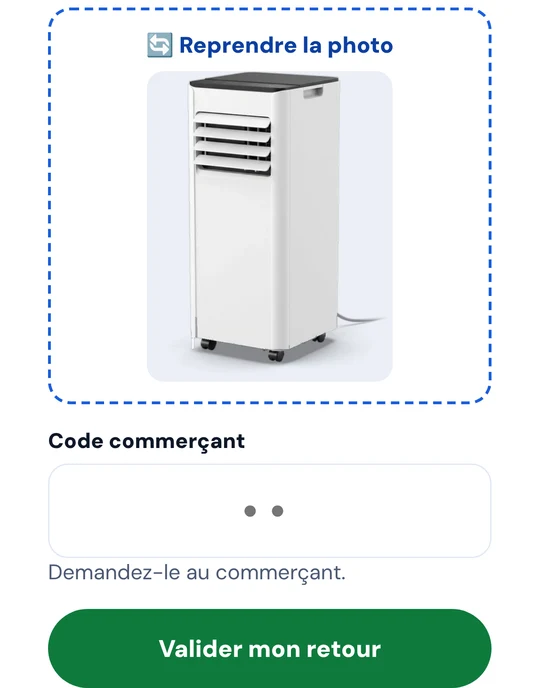
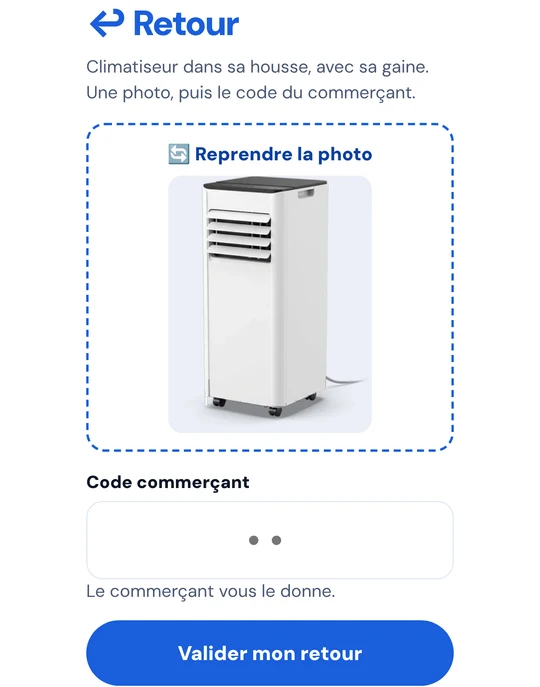
Page QR code client : seulement Retrait (vert) et Retour (bleu), infos inutiles retirées ; l'échange passe par « Un problème ? » › « Il ne marche pas »
Claude-Session: https://claude.ai/code/session_01GEnKbPYfUY1zWoPXS2iGVo

diff --git a/retrait.html b/retrait.html
@@ -13,7 +13,7 @@
 <!-- Page ouverte par le QR code collé chez le commerçant (Click & Collect).
      Le client s'identifie avec son numéro de commande. Retrait : il valide et
      montre l'écran vert. Retour : photo sous housse + code commerçant.
-     Panne : « Échanger mon appareil ici » (voir api/_lib/panne.js).
+     Panne : « Un problème ? » › « Il ne marche pas » = échange ici (voir api/_lib/panne.js).
      Serveur : api/cc-comptoir.js. -->
 <style>
 :root{--vif:#1A5EDB;--vif-d:#0D3FA0;--ink:#0E1726;--ink-2:#4B5873;--line:#E3E9F4;--mist:#F2F6FD;--ok:#0F7A3D;--err:#B42318;--paper:#fff}
@@ -48,10 +48,11 @@ input.pin{letter-spacing:.5em;font-weight:800;font-size:24px;text-align:center}
 .badge.ok{background:#E8F6EE;color:var(--ok)}
 .badge.att{background:#FFF4E5;color:#8A4B00}
 .tendre{margin:18px 0 0;text-align:center;font-weight:800;color:var(--vif-d)}
-.commercant{margin-top:20px;padding-top:20px;border-top:2px dashed var(--line)}
-.commercant h2{font-size:19px;margin:0 0 8px}
+.commercant{margin:0}
+.bloc-t{font-size:30px;font-weight:900;letter-spacing:-.03em;margin:0 0 8px}
+.t-ret{color:var(--ok)}.t-rtr{color:var(--vif)}
 .commercant p{margin:0 0 14px;color:var(--ink-2);font-size:15px;line-height:1.45}
-.client-ret{margin-top:18px}
+.client-ret{margin:0}
 .client-ret p{margin:0 0 14px;color:var(--ink-2);font-size:15.5px;line-height:1.5}
 .signal{margin-top:18px;padding-top:14px;border-top:1px solid var(--line)}
 .sig-lien{border:0;background:none;color:var(--ink-2);font:700 15px 'DM Sans',sans-serif;text-decoration:underline;cursor:pointer;padding:10px 0;min-height:44px;text-align:left}
@@ -113,14 +114,13 @@ html:not([data-l="en"]):not([data-l="es"]) [lang="en"],html:not([data-l="en"]):n
 <main>
   <!-- 1. le client s'identifie -->
   <section id="e-id">
-    <h1><span lang="fr">Retirer ou rendre votre climatiseur</span><span lang="en">Pick up or return your air conditioner</span><span lang="es">Recoge o devuelve tu aire acondicionado</span></h1>
-    <p class="sous"><span lang="fr">Tapez votre numéro de commande pour valider votre retrait. Il est dans votre email, votre SMS et votre confirmation PDF.</span><span lang="en">Enter your order number. It’s in your confirmation email and text, and stays the same until you return the unit.</span><span lang="es">Escribe tu número de pedido. Está en tu email y tu SMS de confirmación, y es el mismo hasta la devolución.</span></p>
-    <p class="point" id="point" hidden></p>
+    <h1><span lang="fr">Retrait ou retour</span><span lang="en">Pick-up or return</span><span lang="es">Recogida o devolución</span></h1>
+    <p class="sous"><span lang="fr">Votre numéro est dans votre email et votre SMS.</span><span lang="en">Your number is in your email and text.</span><span lang="es">Tu número está en tu email y tu SMS.</span></p>
     <form class="carte" id="f-id" novalidate>
       <div class="champ"><label for="ref"><span lang="fr">Numéro de commande</span><span lang="en">Order number</span><span lang="es">Número de pedido</span></label>
         <input id="ref" autocomplete="off" autocapitalize="characters" spellcheck="false" placeholder="CC-XXXXXXXX" maxlength="40"></div>
       
-      <button class="btn" id="b-id" type="submit"><span lang="fr">Voir ma réservation</span><span lang="en">See my booking</span><span lang="es">Ver mi reserva</span></button>
+      <button class="btn" id="b-id" type="submit"><span lang="fr">Continuer</span><span lang="en">Continue</span><span lang="es">Continuar</span></button>
       <p class="msg err" id="m-id" role="alert" hidden></p>
     </form>
   </section>
@@ -128,36 +128,26 @@ html:not([data-l="en"]):not([data-l="es"]) [lang="en"],html:not([data-l="en"]):n
   <!-- 2. la réservation, à montrer au commerçant -->
   <section id="e-resa" hidden>
     <div class="carte">
-      <p style="margin:0;color:var(--ink-2);font-weight:700"><span lang="fr">Réservation</span><span lang="en">Booking</span><span lang="es">Reserva</span> <span id="r-ref"></span></p>
-      <p class="nom" id="r-nom"></p>
-      <div class="ligne"><span><span lang="fr">Location</span><span lang="en">Rental</span><span lang="es">Alquiler</span></span><b id="r-dates"></b></div>
-      <div class="ligne"><span><span lang="fr">Pièce d’identité</span><span lang="en">ID</span><span lang="es">Documento</span></span><span id="r-piece"></span></div>
-      <p class="tendre" id="r-tendre"><span lang="fr">Tendez votre téléphone au commerçant.</span><span lang="en">Hand your phone to the shopkeeper.</span><span lang="es">Dale tu teléfono al comerciante.</span></p>
       <p class="msg info" id="r-info" hidden></p>
 
       <div class="client-ret" id="f-cli" hidden>
+        <h2 class="bloc-t t-ret">✓ <span lang="fr">Retrait</span><span lang="en">Pick-up</span><span lang="es">Recogida</span></h2>
         <p id="c-consigne"></p>
         <button class="btn vert" id="b-cli" type="button"><span lang="fr">Valider mon retrait</span><span lang="en">Confirm my pick-up</span><span lang="es">Confirmar mi recogida</span></button>
         <p class="msg err" id="m-cli" role="alert" hidden></p>
       </div>
       <form class="commercant" id="f-com" novalidate hidden>
-        <h2><span lang="fr">Rendre le climatiseur</span><span lang="en">Return the air conditioner</span><span lang="es">Devolver el aire acondicionado</span></h2>
+        <h2 class="bloc-t t-rtr">↩ <span lang="fr">Retour</span><span lang="en">Return</span><span lang="es">Devolución</span></h2>
         <p id="r-consigne"></p>
         <label class="photo-retour" id="ph-ret"><input type="file" id="ph-file" accept="image/*" capture="environment" hidden><span id="ph-txt">📷 <span lang="fr">Photo du climatiseur dans sa housse</span><span lang="en">Photo of the air conditioner in its cover</span><span lang="es">Foto del aire acondicionado en su funda</span></span><img id="ph-img" alt="" hidden></label>
         <label class="code-l" for="code-com"><span lang="fr">Code commerçant</span><span lang="en">Shop code</span><span lang="es">Código de comercio</span></label>
         <input class="code-com" id="code-com" type="text" inputmode="numeric" autocomplete="off" maxlength="12" placeholder="••" aria-describedby="code-aide">
-        <p class="code-aide" id="code-aide"><span lang="fr">Demandez-le au commerçant.</span><span lang="en">Ask the shopkeeper for it.</span><span lang="es">Pídeselo al comerciante.</span></p>
-        <button class="btn vert" id="b-com" type="submit"></button>
+        <p class="code-aide" id="code-aide"><span lang="fr">Le commerçant vous le donne.</span><span lang="en">The shopkeeper gives it to you.</span><span lang="es">El comerciante te lo da.</span></p>
+        <button class="btn" id="b-com" type="submit"></button>
         <p class="msg err" id="m-com" role="alert" hidden></p>
       </form>
-      <div class="echange" id="f-ech" hidden>
-        <p class="ech-t"><span lang="fr">Votre climatiseur est en panne&nbsp;?</span><span lang="en">Is your air conditioner broken?</span><span lang="es">¿Tu aire acondicionado no funciona?</span></p>
-        <button class="btn ech-btn" id="b-ech" type="button">🔁 <span lang="fr">Échanger mon appareil ici</span><span lang="en">Swap my unit here</span><span lang="es">Cambiar mi aparato aquí</span></button>
-        <p class="msg err" id="m-ech" role="alert" hidden></p>
-        <p class="msg info" id="i-ech" role="status" hidden></p>
-      </div>
       <div class="signal" id="sig" hidden>
-        <button type="button" class="sig-lien" id="sig-ouvrir" aria-expanded="false" aria-controls="sig-form">⚠ <span lang="fr">Signaler un problème (casse, appareil abîmé…)</span><span lang="en">Report a problem (breakage, damage…)</span><span lang="es">Avisar de un problema (rotura, daño…)</span></button>
+        <button type="button" class="sig-lien" id="sig-ouvrir" aria-expanded="false" aria-controls="sig-form">⚠ <span lang="fr">Un problème&nbsp;? Panne, casse…</span><span lang="en">A problem? Breakdown, damage…</span><span lang="es">¿Un problema? Avería, rotura…</span></button>
         <div class="sig-form" id="sig-form" hidden>
           <div class="sig-choix" role="radiogroup">
             <label><input type="radio" name="sig" value="casse" checked><span><span lang="fr">Casse (roulette, poignée…)</span><span lang="en">Broken (wheel, handle…)</span><span lang="es">Rotura (rueda, asa…)</span></span></label>
@@ -221,12 +211,6 @@ html:not([data-l="en"]):not([data-l="es"]) [lang="en"],html:not([data-l="en"]):n
   function date(iso){ var p = String(iso || '').split('-'); return p.length === 3 ? new Date(+p[0], p[1] - 1, +p[2]).toLocaleDateString(langue() === 'en' ? 'en-GB' : langue() === 'es' ? 'es-ES' : 'fr-FR', {weekday:'short', day:'numeric', month:'short'}) : ''; }
   function erreur(el, t){ el.textContent = t; el.hidden = !t; }
 
-  /* nom du point (affiché pour rassurer : « vous êtes bien chez … ») */
-  fetch('/api/points-retrait' + (POINT === 'test-locair' ? '?test=1' : '')).then(function(r){ return r.json(); }).then(function(j){
-    var p = ((j && j.points) || []).filter(function(x){ return x.id === POINT; })[0];
-    if(p){ var el = $('point'); el.innerHTML = '📍 <span>' + L('Vous êtes chez ', 'You’re at ', 'Estás en ') + '<b></b></span>'; el.querySelector('b').textContent = p.nom; el.hidden = false; }
-  }).catch(function(){});
-
   /* réservation gardée sur ce téléphone après le paiement : pré-remplie */
   try{ var mr = JSON.parse(localStorage.getItem('locair_cc_merci') || 'null'); if(mr && mr.ref) $('ref').value = mr.ref; }catch(e){}
 
@@ -251,31 +235,26 @@ html:not([data-l="en"]):not([data-l="es"]) [lang="en"],html:not([data-l="en"]):n
   });
 
   function afficher(r){
-    $('r-ref').textContent = r.ref || etat.ref;
-    $('r-nom').textContent = ((r.prenom || '') + ' ' + (r.nom || '')).trim();
-    $('r-dates').textContent = date(r.date_debut) + ' → ' + date(r.date_fin);
-    var pc = $('r-piece'); pc.className = 'badge ' + (r.piece_recue ? 'ok' : 'att');
-    pc.textContent = r.piece_recue ? L('Reçue en ligne', 'Received online', 'Recibido online') : L('À vérifier au comptoir', 'Check at the counter', 'Comprobar en el mostrador');
-    var info = $('r-info'), f = $('f-com'), btn = $('b-com'), nom = $('r-nom').textContent;
-    info.hidden = true; f.hidden = true; $('f-cli').hidden = true; $('f-ech').hidden = true; etat.action = null;
-    $('sig').hidden = !(r.peut_remettre || r.peut_rendre); etat.moment = r.peut_remettre ? 'retrait' : 'retour';
-    if(r.rendu){ info.textContent = L('Cet appareil a déjà été rendu. Merci !', 'This unit has already been returned. Thank you!', 'Este aparato ya se ha devuelto. ¡Gracias!'); info.hidden = false; $('r-tendre').hidden = true; return; }
+    var nom = ((r.prenom || '') + ' ' + (r.nom || '')).trim();
+    var info = $('r-info'), f = $('f-com'), btn = $('b-com');
+    info.hidden = true; f.hidden = true; $('f-cli').hidden = true; etat.action = null;
+    /* panne pendant la location (ou client livré venu échanger) : « Il ne marche pas » = échange ici */
+    var auj = new Date().toLocaleDateString('sv-SE', {timeZone:'Europe/Paris'});
+    etat.peutEchanger = !!(r.peut_echanger || (r.peut_rendre && r.date_fin && r.date_fin > auj));
+    $('sig').hidden = !(r.peut_remettre || r.peut_rendre || r.peut_echanger); etat.moment = r.peut_remettre ? 'retrait' : 'retour';
+    if(r.rendu){ info.textContent = L('Cet appareil a déjà été rendu. Merci !', 'This unit has already been returned. Thank you!', 'Este aparato ya se ha devuelto. ¡Gracias!'); info.hidden = false; return; }
     /* RETRAIT : le client valide lui-même, après avoir montré sa pièce d'identité.
        RETOUR : le téléphone passe au commerçant, qui confirme avec son code. */
-    $('r-tendre').hidden = true;
     if(r.peut_remettre){
-      $('c-consigne').textContent = L('Appuyez sur le bouton, puis montrez l’écran de confirmation et votre pièce d’identité originale (nom : ' + nom + ') au commerçant. Il vous remet le climatiseur sous sa housse, avec sa gaine d’évacuation. Enlevez la housse seulement chez vous.', 'Tap the button, then show the confirmation screen and your original ID (name: ' + nom + ') to the shopkeeper. They hand you the air conditioner under its cover, with its exhaust hose. Only take the cover off at home.', 'Pulsa el botón y enseña la pantalla de confirmación y tu documento de identidad original (nombre: ' + nom + ') al comerciante. Te entrega el aire acondicionado con su funda y su tubo de evacuación. Quita la funda solo en casa.');
+      $('c-consigne').textContent = L('Validez, puis montrez l’écran vert et votre pièce d’identité (' + nom + ') au commerçant.', 'Confirm, then show the green screen and your ID (' + nom + ') to the shopkeeper.', 'Confirma y enseña la pantalla verde y tu documento de identidad (' + nom + ') al comerciante.');
       $('f-cli').hidden = false;
     } else if(r.peut_rendre){
       etat.action = 'rendre';
-      /* location en cours : on peut aussi échanger un appareil en panne (_lib/panne.js) */
-      var auj = new Date().toLocaleDateString('sv-SE', {timeZone:'Europe/Paris'});
-      $('f-ech').hidden = !(r.date_fin && r.date_fin > auj);
-      $('r-consigne').textContent = L('Déposez le climatiseur dans sa housse, avec sa gaine d’évacuation. Prenez-le en photo, demandez le code au commerçant, puis validez.', 'Leave the air conditioner in its cover, with its exhaust hose. Take a photo, ask the shopkeeper for the code, then confirm.', 'Deja el aire acondicionado en su funda, con su tubo de evacuación. Hazle una foto, pide el código al comerciante y confirma.');
+      $('r-consigne').textContent = L('Climatiseur dans sa housse, avec sa gaine. Une photo, puis le code du commerçant.', 'Air conditioner in its cover, with its hose. One photo, then the shopkeeper’s code.', 'Aire acondicionado en su funda, con su tubo. Una foto y luego el código del comerciante.');
       btn.textContent = L('Valider mon retour', 'Confirm my return', 'Confirmar mi devolución'); f.hidden = false;
     } else if(r.peut_echanger){
       /* client livré à domicile : il vient seulement échanger un appareil en panne */
-      $('f-ech').hidden = false;
+      info.textContent = L('Appareil en panne ? Touchez « Un problème ? » ci-dessous.', 'Unit broken? Tap “A problem?” below.', '¿Aparato averiado? Pulsa «¿Un problema?» abajo.'); info.hidden = false;
     } else {
       info.textContent = r.remise_message || L('Rien à faire aujourd’hui pour cette réservation.', 'Nothing to do today for this booking.', 'Nada que hacer hoy con esta reserva.'); info.hidden = false;
     }
@@ -322,8 +301,11 @@ html:not([data-l="en"]):not([data-l="es"]) [lang="en"],html:not([data-l="en"]):n
     var b = this, c = document.querySelector('input[name="sig"]:checked'); var lib = b.innerHTML; b.disabled = true; b.textContent = L('Envoi…', 'Sending…', 'Enviando…'); erreur($('sig-err'), '');
     envoyerPhotos().catch(function(){ return null; }).then(function(chemins){
       if(chemins === null && photosSig.length){ throw new Error(L('La photo n’a pas pu partir. Réessayez, ou retirez-la pour envoyer sans photo.', 'The photo couldn’t be sent. Try again, or remove it to send without a photo.', 'No se pudo enviar la foto. Inténtalo de nuevo o quítala para enviar sin foto.')); }
-      return appel({action:'signaler', categorie:c ? c.value : 'autre', moment:etat.moment, message:$('sig-msg').value, photos:chemins || []});
+      var corps = {categorie:c ? c.value : 'autre', moment:etat.moment, message:$('sig-msg').value, photos:chemins || []};
+      if(corps.categorie === 'panne' && etat.peutEchanger){ corps.action = 'echanger'; return faireEchange(b, lib, corps).then(function(){ return null; }); }
+      corps.action = 'signaler'; return appel(corps);
     }).then(function(r){
+      if(r === null) return;
       b.disabled = false; b.innerHTML = lib;
       if(!r.ok) return erreur($('sig-err'), r.j.error || L('Échec. Réessayez.', 'Failed. Please try again.', 'Error. Inténtalo de nuevo.'));
       $('sig-form').hidden = true; $('sig-ouvrir').hidden = true;
@@ -353,25 +335,24 @@ html:not([data-l="en"]):not([data-l="es"]) [lang="en"],html:not([data-l="en"]):n
     function tic(){ var d = new Date(); $('f-horloge').textContent = d.toLocaleTimeString(loc, {hour:'2-digit', minute:'2-digit', second:'2-digit', timeZone:'Europe/Paris'}); }
     tic(); clearInterval(minuterie); minuterie = setInterval(tic, 1000);
   }
-  $('b-ech').addEventListener('click', function(){
-    var b = $('b-ech'); b.disabled = true; erreur($('m-ech'), ''); $('i-ech').hidden = true;
-    appel({action:'echanger', categorie:'panne'}).then(function(r){
-      b.disabled = false;
-      if(!r.ok) return erreur($('m-ech'), r.j.error || L('Échec. Réessayez.', 'Failed. Please try again.', 'Error. Inténtalo de nuevo.'));
+  function faireEchange(b, lib, corps){
+    return appel(corps).then(function(r){
+      b.disabled = false; b.innerHTML = lib;
+      if(!r.ok) return erreur($('sig-err'), r.j.error || L('Échec. Réessayez.', 'Failed. Please try again.', 'Error. Inténtalo de nuevo.'));
       if(r.j.issue === 'echange_comptoir'){
         $('e-resa').hidden = true; $('e-fini').hidden = false; window.scrollTo(0, 0);
         $('f-titre').textContent = L('Échange validé ⇄', 'Swap confirmed ⇄', 'Cambio confirmado ⇄');
         montrerAuCommercant('echange');
-        $('f-texte').textContent = L('Le commerçant reprend votre appareil et vous en donne un autre, sous sa housse, avec sa gaine. Votre location continue jusqu’au ', 'The shopkeeper takes your unit and gives you another one, in its cover, with its hose. Your rental continues until ', 'El comerciante recoge tu aparato y te da otro, con su funda y su tubo. Tu alquiler sigue hasta el ') + date(etat.resa.date_fin).replace(/\.$/, '') + '.' + (r.j.dossier ? ' (' + r.j.dossier + ')' : '');
+        $('f-texte').textContent = L('Votre location continue jusqu’au ', 'Your rental continues until ', 'Tu alquiler sigue hasta el ') + date(etat.resa.date_fin).replace(/\.$/, '') + '.' + (r.j.dossier ? ' (' + r.j.dossier + ')' : '');
       } else {
-        $('f-ech').hidden = false; b.hidden = true;
-        var i = $('i-ech'); i.textContent = r.j.issue === 'reapprovisionnement'
-          ? L('Plus d’appareil de rechange ici aujourd’hui. Gardez le vôtre pour l’instant : on apporte un climatiseur à ce point le jour même ou le lendemain, et vous recevez un SMS. Revenez alors l’échanger ici.', 'No spare unit here today. Keep yours for now: we’re bringing one to this point the same day or the next, and you’ll get a text. Then come back and swap it here.', 'Hoy no queda aparato de repuesto aquí. Quédate el tuyo por ahora: llevamos uno a este punto el mismo día o al siguiente y recibirás un SMS. Vuelve entonces a cambiarlo aquí.')
+        $('sig-form').hidden = true; $('sig-ouvrir').hidden = true;
+        var i = $('sig-ok'); i.textContent = r.j.issue === 'reapprovisionnement'
+          ? L('Plus d’appareil ici aujourd’hui. Gardez le vôtre : on en apporte un, vous recevez un SMS.', 'No spare unit here today. Keep yours: we’ll bring one and text you.', 'Hoy no queda aparato aquí. Quédate el tuyo: llevamos uno y te avisamos por SMS.')
           : L('C’est noté, on vous recontacte rapidement.', 'Noted, we’ll get back to you quickly.', 'Anotado, te contactamos rápidamente.');
         i.hidden = false;
       }
-    }).catch(function(){ b.disabled = false; erreur($('m-ech'), L('Pas de connexion. Réessayez.', 'No connection. Please try again.', 'Sin conexión. Inténtalo de nuevo.')); });
-  });
+    });
+  }
   $('b-cli').addEventListener('click', function(){
     var b = $('b-cli'); b.disabled = true; erreur($('m-cli'), '');
     appel({action:'valider'}).then(function(r){
@@ -380,7 +361,7 @@ html:not([data-l="en"]):not([data-l="es"]) [lang="en"],html:not([data-l="en"]):n
       $('e-resa').hidden = true; $('e-fini').hidden = false; window.scrollTo(0, 0);
       $('f-titre').textContent = L('Retrait validé ✓', 'Pick-up confirmed ✓', 'Recogida confirmada ✓');
       montrerAuCommercant();
-      $('f-texte').textContent = L('Le commerçant vous remet le climatiseur sous sa housse, avec sa gaine. Rapportez l’appareil ici le ', 'Pick-up confirmed. Bring the unit back here on ', 'Recogida confirmada. Devuelve el aparato aquí el ') + date(etat.resa.date_fin).replace(/\.$/, '') + L('. Gardez votre numéro de commande.', '. Keep your order number.', '. Guarda tu número de pedido.');
+      $('f-texte').textContent = L('À rapporter ici le ', 'Bring it back here on ', 'Devuélvelo aquí el ') + date(etat.resa.date_fin).replace(/\.$/, '') + '.';
     }).catch(function(){ b.disabled = false; erreur($('m-cli'), L('Pas de connexion. Réessayez.', 'No connection. Please try again.', 'Sin conexión. Inténtalo de nuevo.')); });
   });
   var photoRetour = null, photoChemin = null;
@@ -406,7 +387,7 @@ html:not([data-l="en"]):not([data-l="es"]) [lang="en"],html:not([data-l="en"]):n
       if(!r.ok){ if(r.j.code === 'code_commercant'){ $('code-com').setAttribute('aria-invalid', 'true'); $('code-com').select(); } return erreur($('m-com'), r.j.error || L('Échec. Réessayez.', 'Failed. Please try again.', 'Error. Inténtalo de nuevo.')); }
       $('e-resa').hidden = true; $('e-fini').hidden = false; window.scrollTo(0, 0);
       if(action === 'valider'){ $('f-titre').textContent = L('C’est parti, bonne fraîcheur !', 'All set, stay cool!', '¡Listo, disfruta del fresco!'); $('f-texte').textContent = L('Remise confirmée. Rapportez l’appareil ici le ', 'Handover confirmed. Bring the unit back here on ', 'Entrega confirmada. Devuelve el aparato aquí el ') + date(etat.resa.date_fin).replace(/\.$/, '') + '.'; }
-      else { $('f-avis').hidden = false; $('f-titre').textContent = L('Retour confirmé, merci !', 'Return confirmed, thank you!', '¡Devolución confirmada, gracias!'); $('f-texte').textContent = L('Votre location est terminée. Votre confirmation et votre facture arrivent par email et SMS.', 'Your rental is over. Your confirmation and invoice are on their way by email and text.', 'Tu alquiler ha terminado. Tu confirmación y tu factura llegan por email y SMS.'); return; $('f-texte').textContent = L('Votre location est terminée. À bientôt chez Loc’Air.', 'Your rental is over. See you soon at Loc’Air.', 'Tu alquiler ha terminado. Hasta pronto en Loc’Air.'); }
+      else { $('f-avis').hidden = false; $('f-titre').textContent = L('Retour confirmé, merci !', 'Return confirmed, thank you!', '¡Devolución confirmada, gracias!'); $('f-texte').textContent = L('Votre facture arrive par email.', 'Your invoice is on its way by email.', 'Tu factura llega por email.'); return; }
     }).catch(function(x){ b.disabled = false; erreur($('m-com'), (x && x.message) || L('Pas de connexion. Réessayez.', 'No connection. Please try again.', 'Sin conexión. Inténtalo de nuevo.')); });
   });
 })();

diff --git a/api/_lib/julieKnowledge.js b/api/_lib/julieKnowledge.js
@@ -30,8 +30,8 @@ const PRODUITS = `### Climatiseur mobile
 - Le kit de fenêtre n'est PAS fourni en Click & Collect (seulement l'appareil) : ne jamais le promettre.
 - Pièce d'identité (carte ou passeport) : toujours montrée en original au comptoir. L'envoyer en ligne juste après le paiement est facultatif (ça va plus vite au comptoir).
 - Au comptoir (retrait et retour), le client scanne le QR code affiché chez le commerçant et tape son numéro de commande (CC-…, dans l'email et le SMS de confirmation). C'est le seul numéro à garder : il reste le même après une prolongation, jusqu'au retour. RETRAIT : il valide sur son téléphone ; un écran vert s'affiche (son nom, son numéro, l'heure qui défile à la seconde) ; il le montre au commerçant avec sa pièce d'identité originale, et repart avec l'appareil sous sa housse. RETOUR : il dépose le climatiseur dans sa housse avec sa gaine d'évacuation, scanne le QR code, tape son numéro, prend une photo de l'appareil dans sa housse, demande le code commerçant au commerçant, le tape et valide. Il reçoit aussitôt sa confirmation de retour et sa facture par email et SMS. Ne jamais dire comment le code commerçant est fabriqué : seul le commerçant le donne.
-- Click & Collect, panne pendant la location : il la déclare sur locair.fr/panne, puis rapporte l'appareil au MÊME point (le pressing où il l'a retiré, jamais un autre) (sous sa housse, avec la gaine) : au comptoir il scanne le QR code, tape son numéro et touche « Échanger mon appareil » ; il montre l'écran vert au commerçant et repart avec un autre. Sa location continue.
-- Click & Collect : au comptoir (retrait ou retour), le client peut toucher « Signaler un problème » (casse, appareil abîmé, élément manquant, ne marche pas) : Loc'Air est prévenu tout de suite et organise le remplacement de l'appareil au point (un transporteur apporte un appareil en bon état). Ne jamais promettre une heure précise. Ça ne bloque pas la validation.
+- Click & Collect, panne pendant la location : il la déclare sur locair.fr/panne, puis rapporte l'appareil au MÊME point (le pressing où il l'a retiré, jamais un autre) (sous sa housse, avec la gaine) : au comptoir il scanne le QR code, tape son numéro, touche « Un problème ? » puis « Il ne marche pas » ; il montre l'écran orange « Échange validé » au commerçant et repart avec un autre. Sa location continue.
+- Click & Collect : au comptoir (retrait ou retour), le client peut toucher « Un problème ? » (casse, appareil abîmé, élément manquant, ne marche pas) : Loc'Air est prévenu tout de suite et organise le remplacement de l'appareil au point (un transporteur apporte un appareil en bon état). Ne jamais promettre une heure précise. Ça ne bloque pas la validation.
 - Click & Collect, règles (CGV article 10 ter) : annulation gratuite et remboursement intégral avant le retrait ; 14 jours de rétractation après le paiement (si l'appareil est déjà retiré, le client paie seulement les jours utilisés). Retard : jusqu'à 7 jours, chaque jour de retard = un jour de location en plus (21 € par jour et par appareil), prévenu par SMS ; au-delà de 7 jours, l'appareil est considéré comme non rendu et sa valeur de remplacement est facturée. Casse due au client, perte ou élément manquant : prix réel de réparation ou de remplacement, sur justificatif. Usure normale : rien.
 - Click & Collect : pas de télécommande fournie, ni de kit fenêtre. Le client reçoit l'appareil sous sa housse, avec sa gaine d'évacuation.
 - Click & Collect : l'appareil est TOUJOURS sous sa housse de protection, en boutique et pendant le trajet. Le client l'enlève seulement chez lui et la remet avant de le rapporter. Le client rince le filtre une fois par semaine (éteindre et débrancher, retirer le filtre, rincer à l'eau tiède, laisser sécher, remettre) : un rappel lui est envoyé. Au retour : appareil sous sa housse (remise par le client chez lui), avec sa gaine, filtre propre. Ainsi l'appareil repart tout de suite chez le client suivant.

diff --git a/panne.html b/panne.html
@@ -269,7 +269,7 @@ textarea:focus{outline:none;border-color:var(--vif);box-shadow:0 0 0 4px rgba(26
     if(j.dossier){ $('r-dossier').textContent = L('Dossier ', 'Case ', 'Expediente ') + j.dossier; $('r-dossier').hidden = false; }
     var T = {
       rapporter_au_point: [L('Échange immédiat au point', 'Instant swap at the point', 'Cambio inmediato en el punto'), L('Rapportez votre climatiseur au point ', 'Bring your air conditioner back to ', 'Devuelve tu aire acondicionado en ') + (pt.nom || '') + (pt.adresse ? ', ' + pt.adresse : '') + (etat.loc && etat.loc.type === 'click_collect' ? L(', là où vous l’avez retiré', ', where you picked it up', ', donde lo recogiste') : '') + (pt.horaires ? ' (' + pt.horaires + ')' : '') + L(' : vous repartez avec un autre.', ': you leave with another one.', ': te llevas otro.'),
-        [L('Remettez la housse et prenez la gaine.', 'Put the cover back on and take the hose.', 'Vuelve a ponerle la funda y lleva el tubo.'), L('Au comptoir, scannez le QR code et tapez votre numéro de commande.', 'At the counter, scan the QR code and enter your order number.', 'En el mostrador, escanea el código QR y escribe tu número de pedido.'), L('Touchez « Échanger mon appareil » et montrez l’écran vert au commerçant.', 'Tap “Swap my unit” and show the green screen to the shopkeeper.', 'Pulsa «Cambiar mi aparato» y enseña la pantalla verde al comerciante.')]],
+        [L('Remettez la housse et prenez la gaine.', 'Put the cover back on and take the hose.', 'Vuelve a ponerle la funda y lleva el tubo.'), L('Au comptoir, scannez le QR code et tapez votre numéro de commande.', 'At the counter, scan the QR code and enter your order number.', 'En el mostrador, escanea el código QR y escribe tu número de pedido.'), L('Touchez « Un problème ? », puis « Il ne marche pas ». Montrez l’écran orange au commerçant.', 'Tap “A problem?”, then “Doesn’t work”. Show the orange screen to the shopkeeper.', 'Pulsa «¿Un problema?» y luego «No funciona». Enseña la pantalla naranja al comerciante.')]],
       reapprovisionnement: [L('C’est noté, on s’en occupe', 'Noted, we’re on it', 'Anotado, nos ocupamos'), L('On apporte un climatiseur au point ', 'We’re bringing an air conditioner to ', 'Llevamos un aire acondicionado a ') + (pt.nom || '') + L(' le jour même ou le lendemain. Vous recevez un SMS dès qu’il vous attend.', ' the same day or the next. You’ll get a text as soon as it’s waiting for you.', ' el mismo día o al siguiente. Recibirás un SMS en cuanto te espere.'), null],
       ticket: [L('Message bien reçu', 'Message received', 'Mensaje recibido'), L('On vous rappelle rapidement pour organiser la suite.', 'We’ll call you back quickly to sort it out.', 'Te llamamos rápidamente para organizarlo.'), null]
     }[j.issue] || [L('Message bien reçu', 'Message received', 'Mensaje recibido'), L('On vous recontacte rapidement.', 'We’ll get back to you quickly.', 'Te contactamos rápidamente.'), null];

diff --git a/api/panne.js b/api/panne.js
@@ -89,7 +89,7 @@ module.exports = async (req, res) => {
     const l = r.lang || lang;
     const dossier = out.dossier ? ` (dossier ${out.dossier})` : '';
     const sms = {
-      rapporter_au_point: T(l, `Loc'Air : panne bien reçue${dossier}. Rapportez l'appareil au point ${pt ? pt.nom + ' (' + pt.adresse + ')' : ''}${ici}, aux horaires d'ouverture : vous repartez avec un autre. Au comptoir, scannez le QR code et touchez « Échanger mon appareil ».`, `Loc'Air: fault received${dossier}. Bring the unit back to ${pt ? pt.nom + ' (' + pt.adresse + ')' : ''}${ici} during opening hours and leave with another one. At the counter, scan the QR code and tap "Swap my unit".`, `Loc'Air: avería recibida${dossier}. Devuelve el aparato en ${pt ? pt.nom + ' (' + pt.adresse + ')' : ''}${ici} en horario de apertura y llévate otro. En el mostrador, escanea el código QR y pulsa «Cambiar mi aparato».`),
+      rapporter_au_point: T(l, `Loc'Air : panne bien reçue${dossier}. Rapportez l'appareil au point ${pt ? pt.nom + ' (' + pt.adresse + ')' : ''}${ici}, aux horaires d'ouverture : vous repartez avec un autre. Au comptoir, scannez le QR code, touchez « Un problème ? » puis « Il ne marche pas ».`, `Loc'Air: fault received${dossier}. Bring the unit back to ${pt ? pt.nom + ' (' + pt.adresse + ')' : ''}${ici} during opening hours and leave with another one. At the counter, scan the QR code, tap "A problem?" then "Doesn’t work".`, `Loc'Air: avería recibida${dossier}. Devuelve el aparato en ${pt ? pt.nom + ' (' + pt.adresse + ')' : ''}${ici} en horario de apertura y llévate otro. En el mostrador, escanea el código QR, pulsa «¿Un problema?» y luego «No funciona».`),
       reapprovisionnement: T(l, `Loc'Air : panne bien reçue${dossier}. On apporte un climatiseur au point ${pt ? pt.nom : ''} le jour même ou le lendemain. Vous recevez un SMS dès qu'il vous attend.`, `Loc'Air: fault received${dossier}. We're bringing a unit to ${pt ? pt.nom : ''} the same day or the next. You'll get a text as soon as it's waiting for you.`, `Loc'Air: avería recibida${dossier}. Llevamos un aparato a ${pt ? pt.nom : ''} el mismo día o al siguiente. Recibirás un SMS en cuanto te espere.`),
       ticket: T(l, `Loc'Air : votre message est bien reçu${dossier}. On vous rappelle rapidement pour organiser la suite.`, `Loc'Air: message received${dossier}. We'll get back to you quickly.`, `Loc'Air: mensaje recibido${dossier}. Te contactamos rápidamente.`),
     }[out.issue] || null;

diff --git a/CLAUDE.md b/CLAUDE.md
@@ -15,6 +15,8 @@ commerçant et du client) suit la même règle :
   quoi faire.
 - **Des repères visuels constants** : au comptoir, vert ✓ = retrait,
   bleu ↩ = retour, orange ⇄ = échange. Partout pareil.
+- **Pas d'information inutile.** Ce qui n'aide pas à agir tout de suite
+  disparaît (dates, rappels, explications déjà connues).
 - Avant de livrer, se demander : « Qu'est-ce que je peux enlever ? »
 
 ## Déploiement
